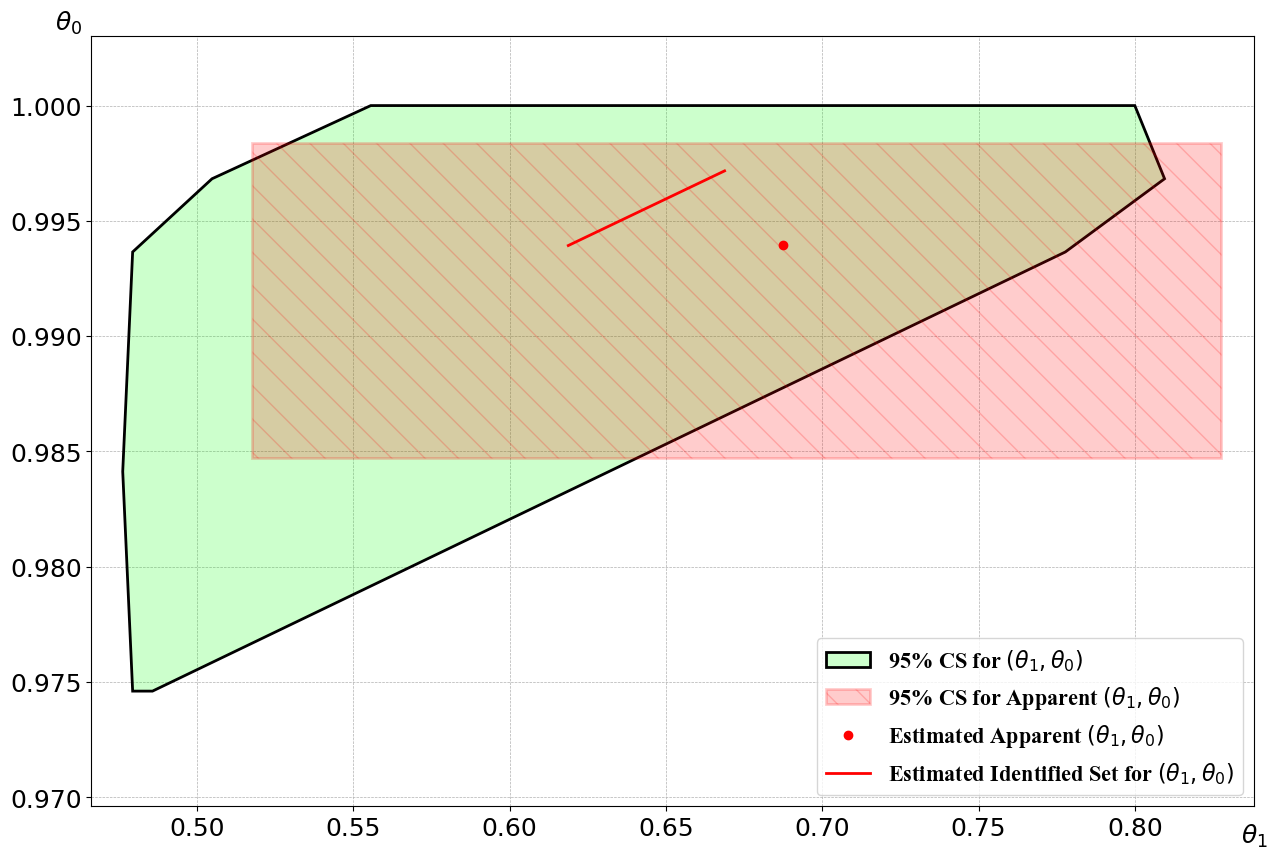
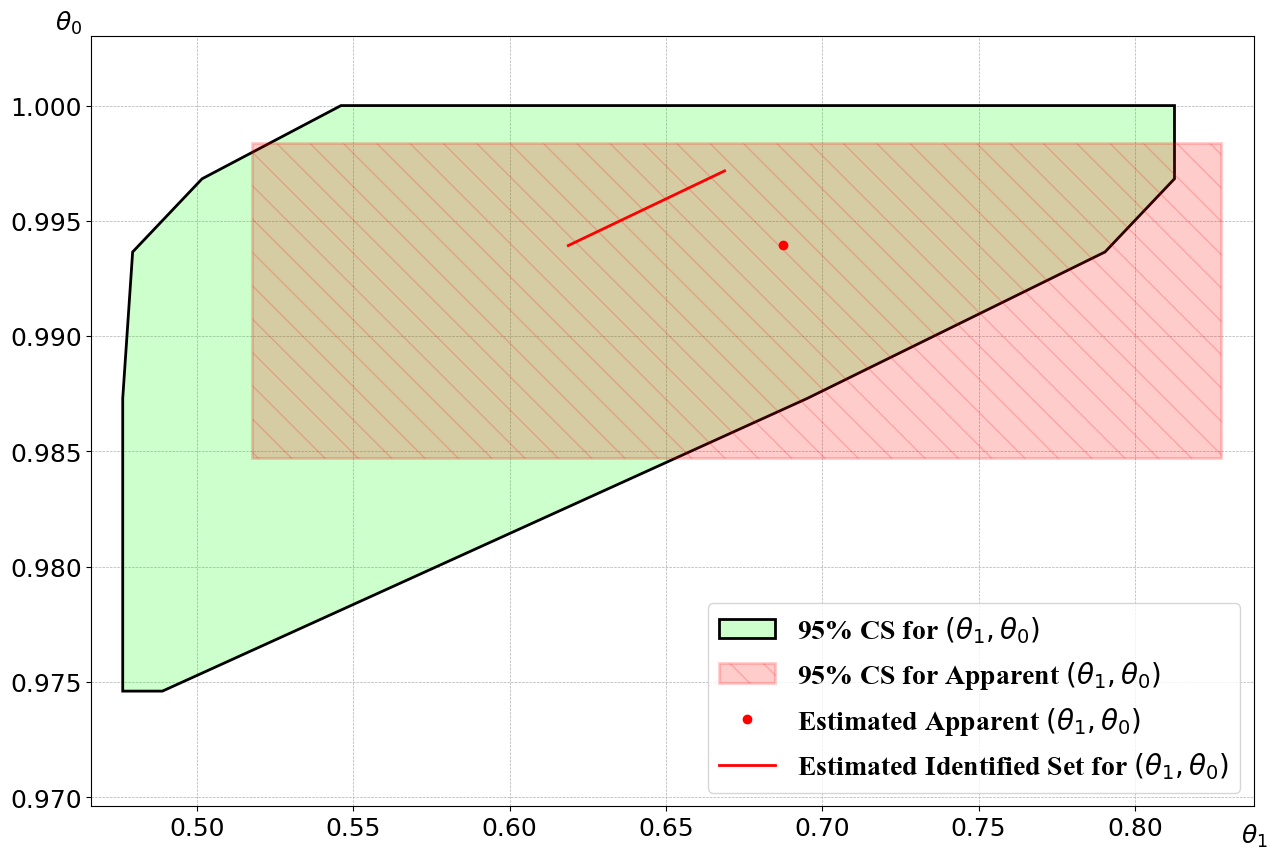
Changed font

diff --git a/functions.py b/functions.py
@@ -7,7 +7,6 @@
 ############################################# Import Modules ###########################################################
 
 import numpy as np
-from scipy.stats import norm
 import statsmodels.stats.proportion as stats
 import matplotlib
 matplotlib.use('Agg')
@@ -17,8 +16,12 @@ from joblib import Parallel, delayed
 from scipy.spatial import ConvexHull
 
 #Graph Options
-font = font_manager.FontProperties(family='Times New Roman', style='normal', size=16)  # Set font for graphs
+font_legend = font_manager.FontProperties(family='Times New Roman', style='normal', size=20)  # Set font for graphs
+font_axes = font_manager.FontProperties(family='Times New Roman', style='normal', size=16)  # Set font for graphs
 tol = 10**-10 # Tolerance for maximum
+
+# Display Options
+np.seterr(divide='ignore', invalid='ignore') # Ignore divide by 0 errors in output that may occur in bootstrap draws
 
 ############################################ Defining functions ########################################################
 
@@ -531,7 +534,7 @@ def graphing(conf_set, estimated_set, t1r1,t1r0,t0r1,t0r0, alpha=0.05, filename 
     # Order legend
     handles, labels = ax.get_legend_handles_labels()
     labels, handles = zip(*sorted(zip(labels, handles), key=lambda t: t[0]))
-    ax.legend(handles, labels,prop=font, loc=4)
+    ax.legend(handles, labels,prop=font_legend, loc=4)
     # ax.legend(handles, labels, loc='upper center', bbox_to_anchor=(0.5, -0.05),
     #           fancybox=True, shadow=True, ncol=5,prop=font)
     # ax.legend()
